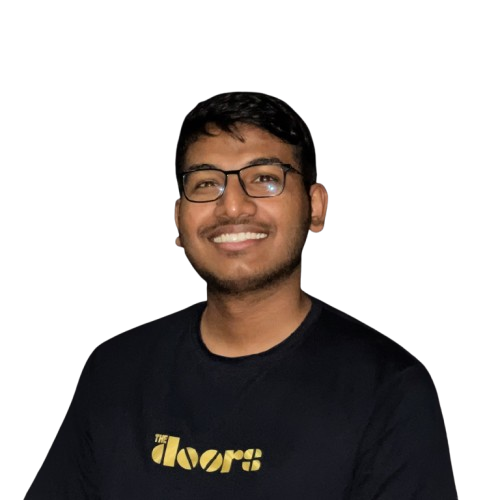
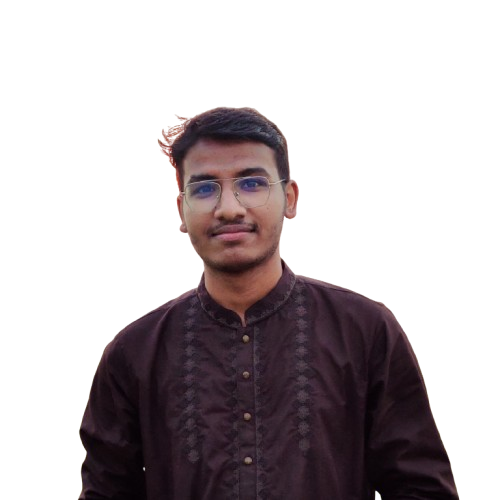
changed images

Changed region(s): [[0.03, 0.18, 0.93, 1.0], [0.75, 0.81, 0.78, 0.84], [0.21, 0.87, 0.24, 0.9]]

diff --git a/index.html b/index.html
@@ -10,7 +10,6 @@
     "name": "Mahfujar Rahman",
     "url": "https://mahfujarr.me",
     "email": "mahfujarrahmanjoy@gmail.com",
-    "telephone": "+8801887853463",
     "image": "https://mahfujarr.me/assets/images/profile2.webp",
     "jobTitle": "Web Developer & CSE Student",
     "address": {

diff --git a/assets/js/script.js b/assets/js/script.js
@@ -34,7 +34,7 @@ const toast = document.getElementById("toast");
 const profilePhotos = [
   "assets/images/profile.webp",
   "assets/images/profile2.webp",
-  "assets/images/profile3.webp",
+  // "assets/images/profile3.webp",
   "assets/images/profile4.webp",
 ];
 let currentPhotoIndex = 0;
